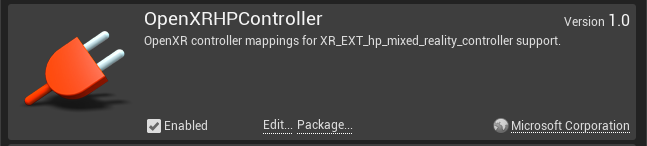
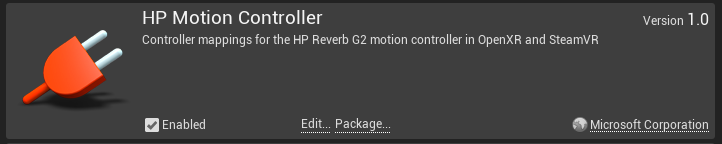
Update unreal content

diff --git a/mixed-reality-docs/mr-dev-docs/develop/unreal/includes/tabs-g2-controllers-in-unreal.md b/mixed-reality-docs/mr-dev-docs/develop/unreal/includes/tabs-g2-controllers-in-unreal.md
@@ -1,24 +1,28 @@
-# [OpenXR](#tab/openxr)
+# [All platforms](#tab/all)
 
-### Enabling OpenXRHPController Plugin 
+### Enabling HP Motion Controller Plugin 
 
-The interaction profile and controller mappings are in the OpenXRHPController plugin, which must be enabled to expose the controller mappings to Unreal’s input system. 
+The interaction profile and controller mappings are in the HP Motion Controller plugin, which must be enabled to expose the controller mappings to Unreal’s input system.
 
 ![Enabling the OpenXRHPController plugin](../images/reverb-g2-img-01.png)
 
-### Porting From Existing OpenXR Game 
-
-If no controller bindings exist in the game for the HP Mixed Reality Controller, the OpenXR runtime will attempt to remap the existing bindings to the active controller.  In this case, the game has Oculus Touch bindings and no HP Mixed Reality Controller bindings.
-
-![Remapping existing bindings when no controller bindings exist](../images/reverb-g2-img-04.png)
-
-The events will still fire, but if the game needs to make use of controller specific bindings, like the right menu button, the HP Mixed Reality interaction profile must be used.  Multiple controller bindings can be specified per action to better support different devices.
-   
-![Using multiple controller bindings](../images/reverb-g2-img-05.png)
-
-
 # [SteamVR](#tab/steamvr)
 
-### Enabling PHP Controller
+Input in Unreal using SteamVR has a few differences.  When setting up the project, first ensure it is using SteamVR’s new input system by adding **vr.SteamVR.EnableVRInput=1** to the **Startup** section in **Engine/Config/ConsoleVariables.ini**.  This ini is found in the engine install directory, not the project directory.
+
+![Updating the Startup configuration](../images/reverb-g2-img-07.png)
+
+The HP Motion Controller plugin will enable OpenXR.  If you're not using OpenXR, you will need to edit the HMDPluginPriority of SteamVR in BaseEngine.ini in the same directory as ConsoleVariables.ini.  Change the SteamVR value to be greater than the OpenXRHMD value.
+
+![Updating the HMDPluginPriority configuration](../images/reverb-g2-img-08.png)
+
+When using thumbstick axis events, the name of the axis event must end in “_X” or “_Y” corresponding to the key used.
+
+![Using thumbstick events](../images/reverb-g2-img-09.png)
+
+Finally, register the actions in the game with SteamVR by using the **Regenerate Action Manifest** and 
+**Regenerate Controller Bindings** buttons in Project Settings > Steam VR Input.
+
+![Registering actions in project settings](../images/reverb-g2-img-10.png)
 
 

diff --git a/mixed-reality-docs/mr-dev-docs/develop/unreal/unreal-reverb-g2-controllers.md b/mixed-reality-docs/mr-dev-docs/develop/unreal/unreal-reverb-g2-controllers.md
@@ -16,6 +16,16 @@ Need introduction...
 
 [!INCLUDE[](includes/tabs-g2-controllers-in-unreal.md)]
 
+### Porting From Existing OpenXR Game 
+
+If no controller bindings exist in the game for the HP Mixed Reality Controller, the OpenXR runtime will attempt to remap the existing bindings to the active controller.  In this case, the game has Oculus Touch bindings and no HP Mixed Reality Controller bindings.
+
+![Remapping existing bindings when no controller bindings exist](images/reverb-g2-img-04.png)
+
+The events will still fire, but if the game needs to make use of controller specific bindings, like the right menu button, the HP Mixed Reality interaction profile must be used.  Multiple controller bindings can be specified per action to better support different devices.
+   
+![Using multiple controller bindings](images/reverb-g2-img-05.png)
+
 ## Adding Input Action Mappings 
 
 Define a new action and map to one of the key presses in the HP Mixed Reality Controller section.
@@ -31,10 +41,6 @@ The HP Reverb G2 controller also has an analog grip, which can be used in the ax
 Right click on a Blueprint and search for the new action names from the input system to add events for these actions.  Here the Blueprint is responding to the events with a print string outputting the current button and axis state.
 
 ![Blueprint responding to events and outputting current button and axis state](images/reverb-g2-img-06.png)
-
-## Using controller input
-
-[!INCLUDE[](includes/tabs-g2-controller-mapping-in-unreal.md)]
 
 ### Input in C++
 
@@ -99,7 +105,7 @@ private:
 
 4. Compile from Visual Studio to launch the editor with the new pawn. Drag and drop the pawn from the content browser into the game and the pawn will now execute the callbacks when input is pressed.
 
-
+## See also
 * [SteamVR Input](https://docs.unrealengine.com/Platforms/VR/SteamVR/HowTo/SteamVRInput/index.html)
 * [Using SteamVR with Windows Mixed Reality](https://docs.microsoft.com/windows/mixed-reality/enthusiast-guide/using-steamvr-with-windows-mixed-reality)
 * [Unreal Player Camera](https://docs.unrealengine.com/Programming/Tutorials/PlayerCamera/3/index.html)
